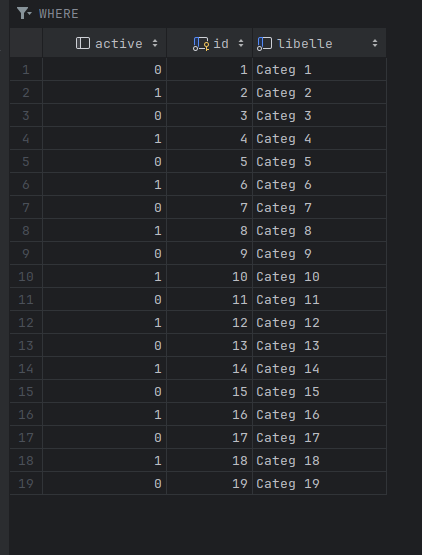
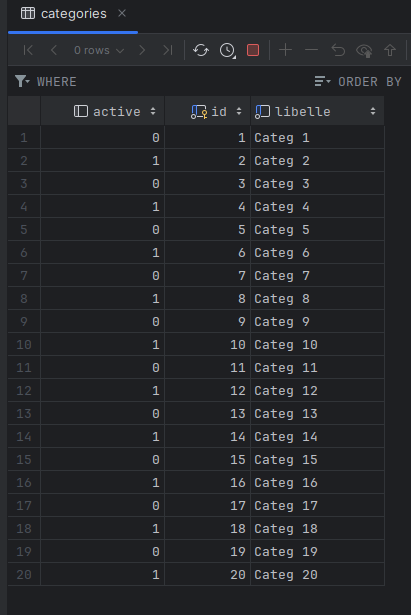
Fix entities

diff --git a/src/main/resources/templates/commande.html b/src/main/resources/templates/commande.html
@@ -13,10 +13,16 @@
     <!-- Ajoutez d'autres colonnes en fonction de votre modèle de données -->
     </thead>
     <tbody>
+
+    <h3 th:if="${client}" th:text="${client.nomComplet}"></h3>
+
     <!-- Utilisez une boucle Thymeleaf pour itérer sur la liste des commandes -->
     <tr th:each="commande : ${commandes}">
         <td th:text="${commande.id}"></td>
-        <td th:text="${commande.dateCommande}"></td>
+        <td th:text="${commande.dateCommand}"></td>
+        <td th:text="${commande.montant}"></td>
+        <td th:text="${commande.adresse}"></td>
+        <td th:text="${commande.etat}"></td>
         <!-- Ajoutez d'autres colonnes en fonction de votre modèle de données -->
     </tr>
     </tbody>

diff --git a/src/main/resources/templates/client.html b/src/main/resources/templates/client.html
@@ -82,9 +82,11 @@ mb-3 " >
                 <tr th:each="cl:${clients}">
                     <td th:text="${cl.nomComplet}"></td>
                     <td th:text="${cl.telephone}"></td><td th:text="${cl.adresse}"></td>
-                    <td ><a href="#"
-                            th:href="@{cl}"
+                    <td ><a
+                            th:href="@{liste-commande(id=${cl.id})}"
                             class="btn
+
+
 btn-outline-success" >Mes Commandes</a></td>
                 </tr>
 

diff --git a/src/main/java/com/ism/ismecom/data/fixtures/CommandeFixtures.java b/src/main/java/com/ism/ismecom/data/fixtures/CommandeFixtures.java
@@ -1,8 +1,10 @@
 package com.ism.ismecom.data.fixtures;
 
 import com.ism.ismecom.data.entities.Adresse;
+import com.ism.ismecom.data.entities.Client;
 import com.ism.ismecom.data.entities.Commande;
 import com.ism.ismecom.data.enums.EtatCommande;
+import com.ism.ismecom.data.repositories.ClientRepository;
 import com.ism.ismecom.data.repositories.CommandeRepository;
 import lombok.RequiredArgsConstructor;
 import org.springframework.boot.CommandLineRunner;
@@ -20,27 +22,33 @@ import java.util.Date;
 public class CommandeFixtures implements CommandLineRunner {
     //injection de dependance avec @RequiredArgsConstructor
     private final CommandeRepository commandeRepository;
+    private final ClientRepository clientRepository;
     @Override
     public void run(String... args) throws Exception {
-        for (int i = 1; i < 20; i++) {
+        for (long i = 1L; i < 21L; i++) {
             Commande commande = new Commande();
             commande.setActive(i%2==0);
-
             //L'adresse
             Adresse adresse = new Adresse();
             adresse.setNumVilla("Villa 0" + i + "0" + i);
             adresse.setVille(i % 2 == 0 ? "Dakar" : "Mbour");
             adresse.setQuartier("Quartier 0" + i + "0" + i);
+
             commande.setAdresse(adresse);
+
+            //recherche le client
+            Client client = clientRepository.findById(i).orElse(null) ;
+            commande.setClient(client);
 
             // Date avec le jour incrémenté
             Calendar calendar = Calendar.getInstance();
             calendar.setTime(new Date());
-            calendar.add(Calendar.DAY_OF_MONTH, i);
+            calendar.add(Calendar.DAY_OF_MONTH, (int) i);
             Date incrementedDate = calendar.getTime();
             // Formattage de la date en "yyyy-MM-dd"
             SimpleDateFormat dateFormat = new SimpleDateFormat("yyyy-MM-dd");
             String formattedDate = dateFormat.format(incrementedDate);
+
             commande.setDateCommand(java.sql.Date.valueOf(formattedDate));
 
             //generer a partir des enumerations

diff --git a/src/main/java/com/ism/ismecom/data/fixtures/ArticleFixtures.java b/src/main/java/com/ism/ismecom/data/fixtures/ArticleFixtures.java
@@ -1,7 +1,9 @@
 package com.ism.ismecom.data.fixtures;
 
 import com.ism.ismecom.data.entities.Article;
+import com.ism.ismecom.data.entities.Categorie;
 import com.ism.ismecom.data.repositories.ArticleRepository;
+import com.ism.ismecom.data.repositories.CategorieRepository;
 import lombok.RequiredArgsConstructor;
 import org.springframework.boot.CommandLineRunner;
 import org.springframework.core.Ordered;
@@ -14,10 +16,10 @@ import org.springframework.stereotype.Component;
 public class ArticleFixtures implements CommandLineRunner {
     //injection de dependance avec @RequiredArgsConstructor
     private final ArticleRepository articleRepository;
-
+    private final CategorieRepository categorieRepository;
     @Override
     public void run(String... args) throws Exception {
-        for (int i = 1; i < 20; i++) {
+        for (long i = 1L; i < 21L; i++) {
             Article article = new Article();
             article.setLibelle("Article 00"+i);
             article.setAncienPrix(5+i+000.0+i);
@@ -31,6 +33,10 @@ public class ArticleFixtures implements CommandLineRunner {
             article.setPhoto("photo"+i+".png");
             article.setQteStock(1+i+0+i+0.+i+1);
             article.setActive(i%2==0);
+
+            //recherche de categ
+            Categorie categorie = categorieRepository.findById(i).orElse(null);
+            article.setCategorie(categorie);
 
             //insert
             articleRepository.save(article);

diff --git a/src/main/java/com/ism/ismecom/data/fixtures/LigneCommandeFixtures.java b/src/main/java/com/ism/ismecom/data/fixtures/LigneCommandeFixtures.java
@@ -23,7 +23,7 @@ public class LigneCommandeFixtures implements CommandLineRunner {
     private final CommandeRepository commandeRepository;
     @Override
     public void run(String... args) throws Exception {
-        for (int i = 1; i < 20; i++) {
+        for (long i = 1L; i < 21L; i++) {
             LigneCommande ligneCommande = new LigneCommande();
             ligneCommande.setActive(i%2==0);
             ligneCommande.setPrix(5+i+000.0+i);
@@ -32,11 +32,11 @@ public class LigneCommandeFixtures implements CommandLineRunner {
             ligneCommande.setMontant(ligneCommande.getPrix()*ligneCommande.getQuantite());
 
             //Recherche de l'article
-            Article article = articleRepository.findById((long) i).orElse(null);
+            Article article = articleRepository.findById(i).orElse(null);
             ligneCommande.setArticle(article);
 
-            //Recherche dela commande
-            Commande commande = commandeRepository.findById((long) i).orElse(null);
+            //Recherche de la commande
+            Commande commande = commandeRepository.findById(i).orElse(null);
             ligneCommande.setCommande(commande);
             //insert
             ligneCommandeRepository.save(ligneCommande);

diff --git a/src/main/java/com/ism/ismecom/data/repositories/CommandeRepository.java b/src/main/java/com/ism/ismecom/data/repositories/CommandeRepository.java
@@ -2,9 +2,15 @@ package com.ism.ismecom.data.repositories;
 
 import com.ism.ismecom.data.entities.Client;
 import com.ism.ismecom.data.entities.Commande;
+import org.springframework.data.domain.Page;
+import org.springframework.data.domain.Pageable;
 import org.springframework.data.jpa.repository.JpaRepository;
 
 import java.util.List;
 
 public interface CommandeRepository extends JpaRepository<Commande,Long> {
+    List<Commande> findCommandeByClientId(Long client_id);
+    List<Commande> findCommandeById(Long id);
+    //List<Client> findCommandeById(Long id);
+    Page<Commande> findCommandeByClientId(Long client_id,Pageable pageable);
 }

diff --git a/src/main/java/com/ism/ismecom/web/controllers/impl/ClientControllerImpl.java b/src/main/java/com/ism/ismecom/web/controllers/impl/ClientControllerImpl.java
@@ -42,8 +42,15 @@ public class ClientControllerImpl implements ClientController {
     }
 
     @Override
-    public String listeCommande(Model model) {
-        return null;
+    public String listeCommande(Model model, long id) {
+        List<Commande> commandes = commandeRepository.findCommandeById(id);
+        //Page<Commande> commandes = commandeRepository.findCommandeByClientId(id,PageRequest.of(0, 10));
+        model.addAttribute("commandes",commandes);
+
+        List<Client> client = clientRepository.findClientById(id);
+        model.addAttribute("client",client);
+
+        return "commande";
     }
 
 

diff --git a/src/main/java/com/ism/ismecom/data/repositories/ClientRepository.java b/src/main/java/com/ism/ismecom/data/repositories/ClientRepository.java
@@ -8,7 +8,13 @@ import org.springframework.data.jpa.repository.JpaRepository;
 import java.util.List;
 
 public interface ClientRepository extends JpaRepository<Client,Long> {
+    List<Client> findAllByActive(Boolean active);
+
     List<Client> findAllByActiveTrue();
     Page<Client> findAllByActiveTrue(Pageable pageable);
-    List<Client> findAllByActive(Boolean active);
+    List<Client> findClientById(Long id);
+
+    Client findClientById(int id);
+
+
 }

diff --git a/src/main/java/com/ism/ismecom/IsmEcomApplication.java b/src/main/java/com/ism/ismecom/IsmEcomApplication.java
@@ -21,5 +21,10 @@ public class IsmEcomApplication implements CommandLineRunner {
 		clientRepository.findAllByActiveTrue().stream().forEach(client -> {
 			System.out.println(client.getNomComplet()+" "+client.getActive());
 		});
+
+		//      List<Client> client = clientRepository.findClientById(id);
+		clientRepository.findClientById(4L).stream().forEach(client -> {
+			System.out.println(client.getNomComplet());
+		});
 	}
 }

diff --git a/src/main/java/com/ism/ismecom/data/fixtures/ClientFixtures.java b/src/main/java/com/ism/ismecom/data/fixtures/ClientFixtures.java
@@ -18,7 +18,7 @@ public class ClientFixtures implements CommandLineRunner {
     private final ClientRepository clientRepository;
     @Override
     public void run(String... args) throws Exception {
-        for (int i = 1; i < 20; i++) {
+        for (long i = 1L; i < 21L; i++) {
             Client client = new Client();
             client.setActive(i%2==0);
             client.setNomComplet("Client "+i);

diff --git a/src/main/java/com/ism/ismecom/data/fixtures/CategorieFixtures.java b/src/main/java/com/ism/ismecom/data/fixtures/CategorieFixtures.java
@@ -17,7 +17,7 @@ public class CategorieFixtures implements CommandLineRunner {
 
     @Override
     public void run(String... args) throws Exception {
-        for (int i = 1; i < 20; i++) {
+        for (long i = 1L; i < 21L; i++) {
             Categorie categorie = new Categorie();
             categorie.setLibelle("Categ "+i);
             categorie.setActive(i%2==0);

diff --git a/src/main/java/com/ism/ismecom/web/controllers/ClientController.java b/src/main/java/com/ism/ismecom/web/controllers/ClientController.java
@@ -12,8 +12,9 @@ public interface ClientController {
                         );
 
 
-    @GetMapping("/liste-commande/${id}")
-    String listeCommande(Model model
+    @GetMapping("/liste-commande")
+    String listeCommande(Model model,
+                         @RequestParam(name="id") long id
                           );
 
 }
